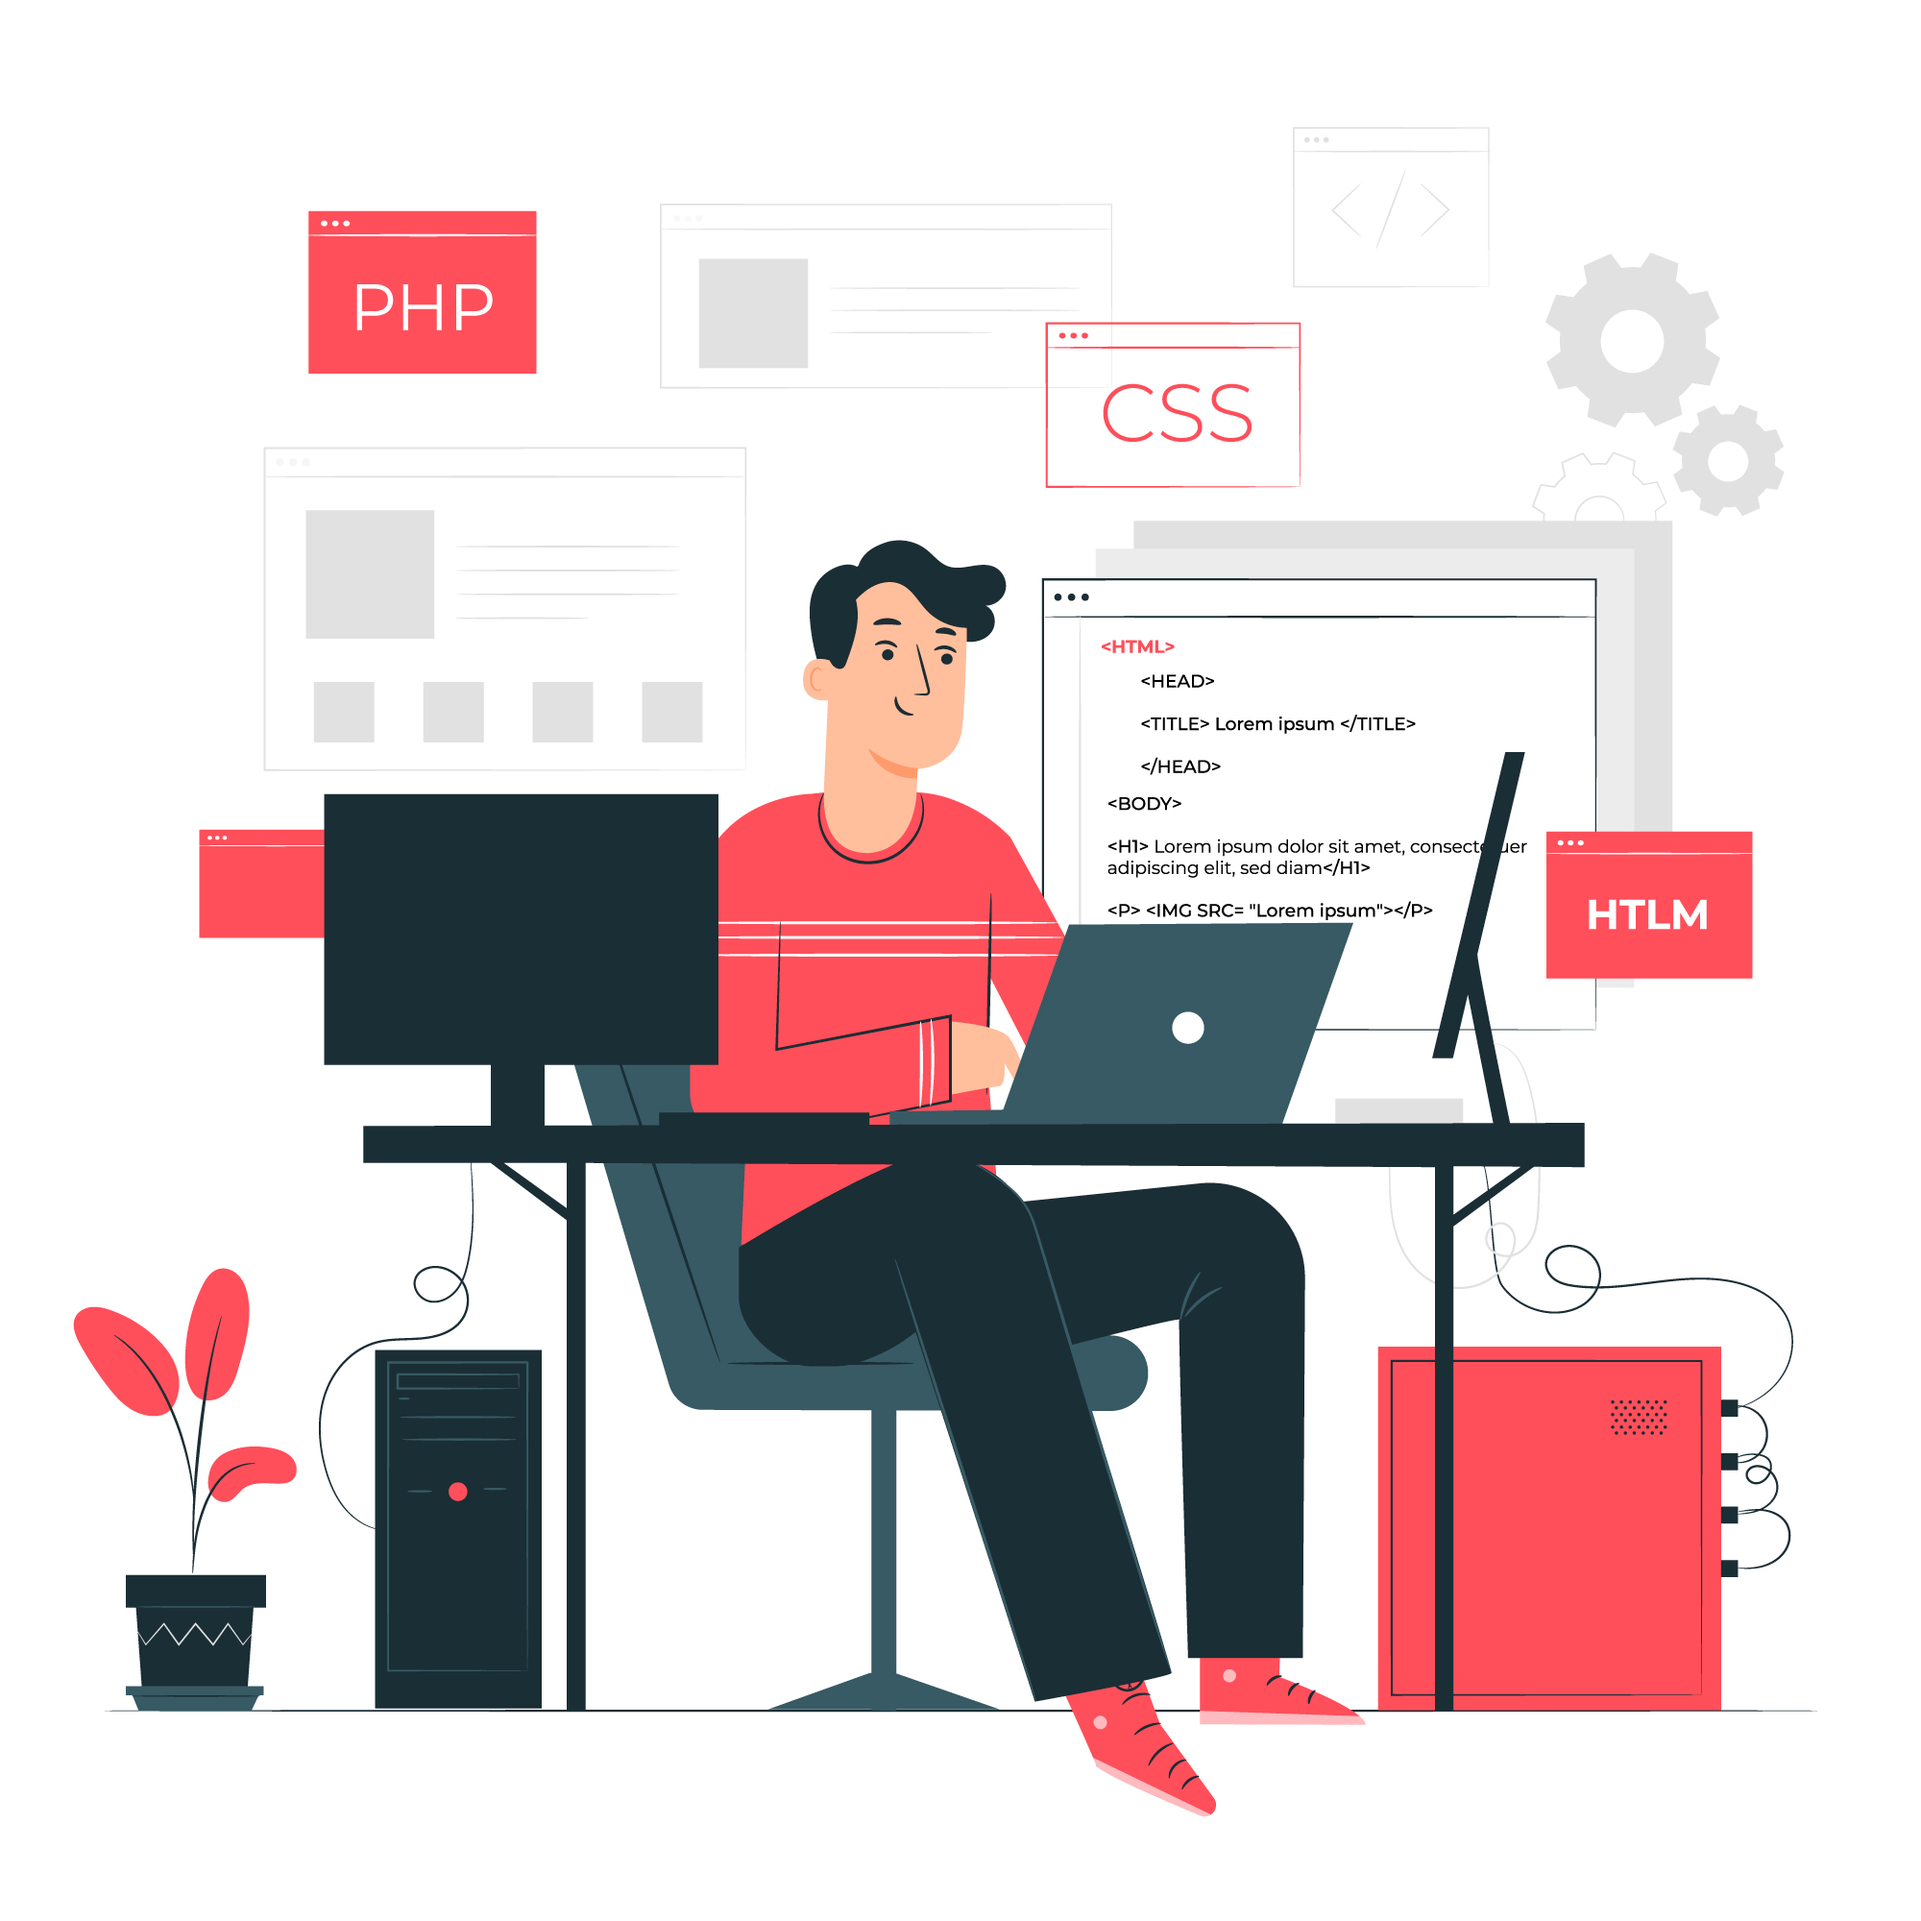
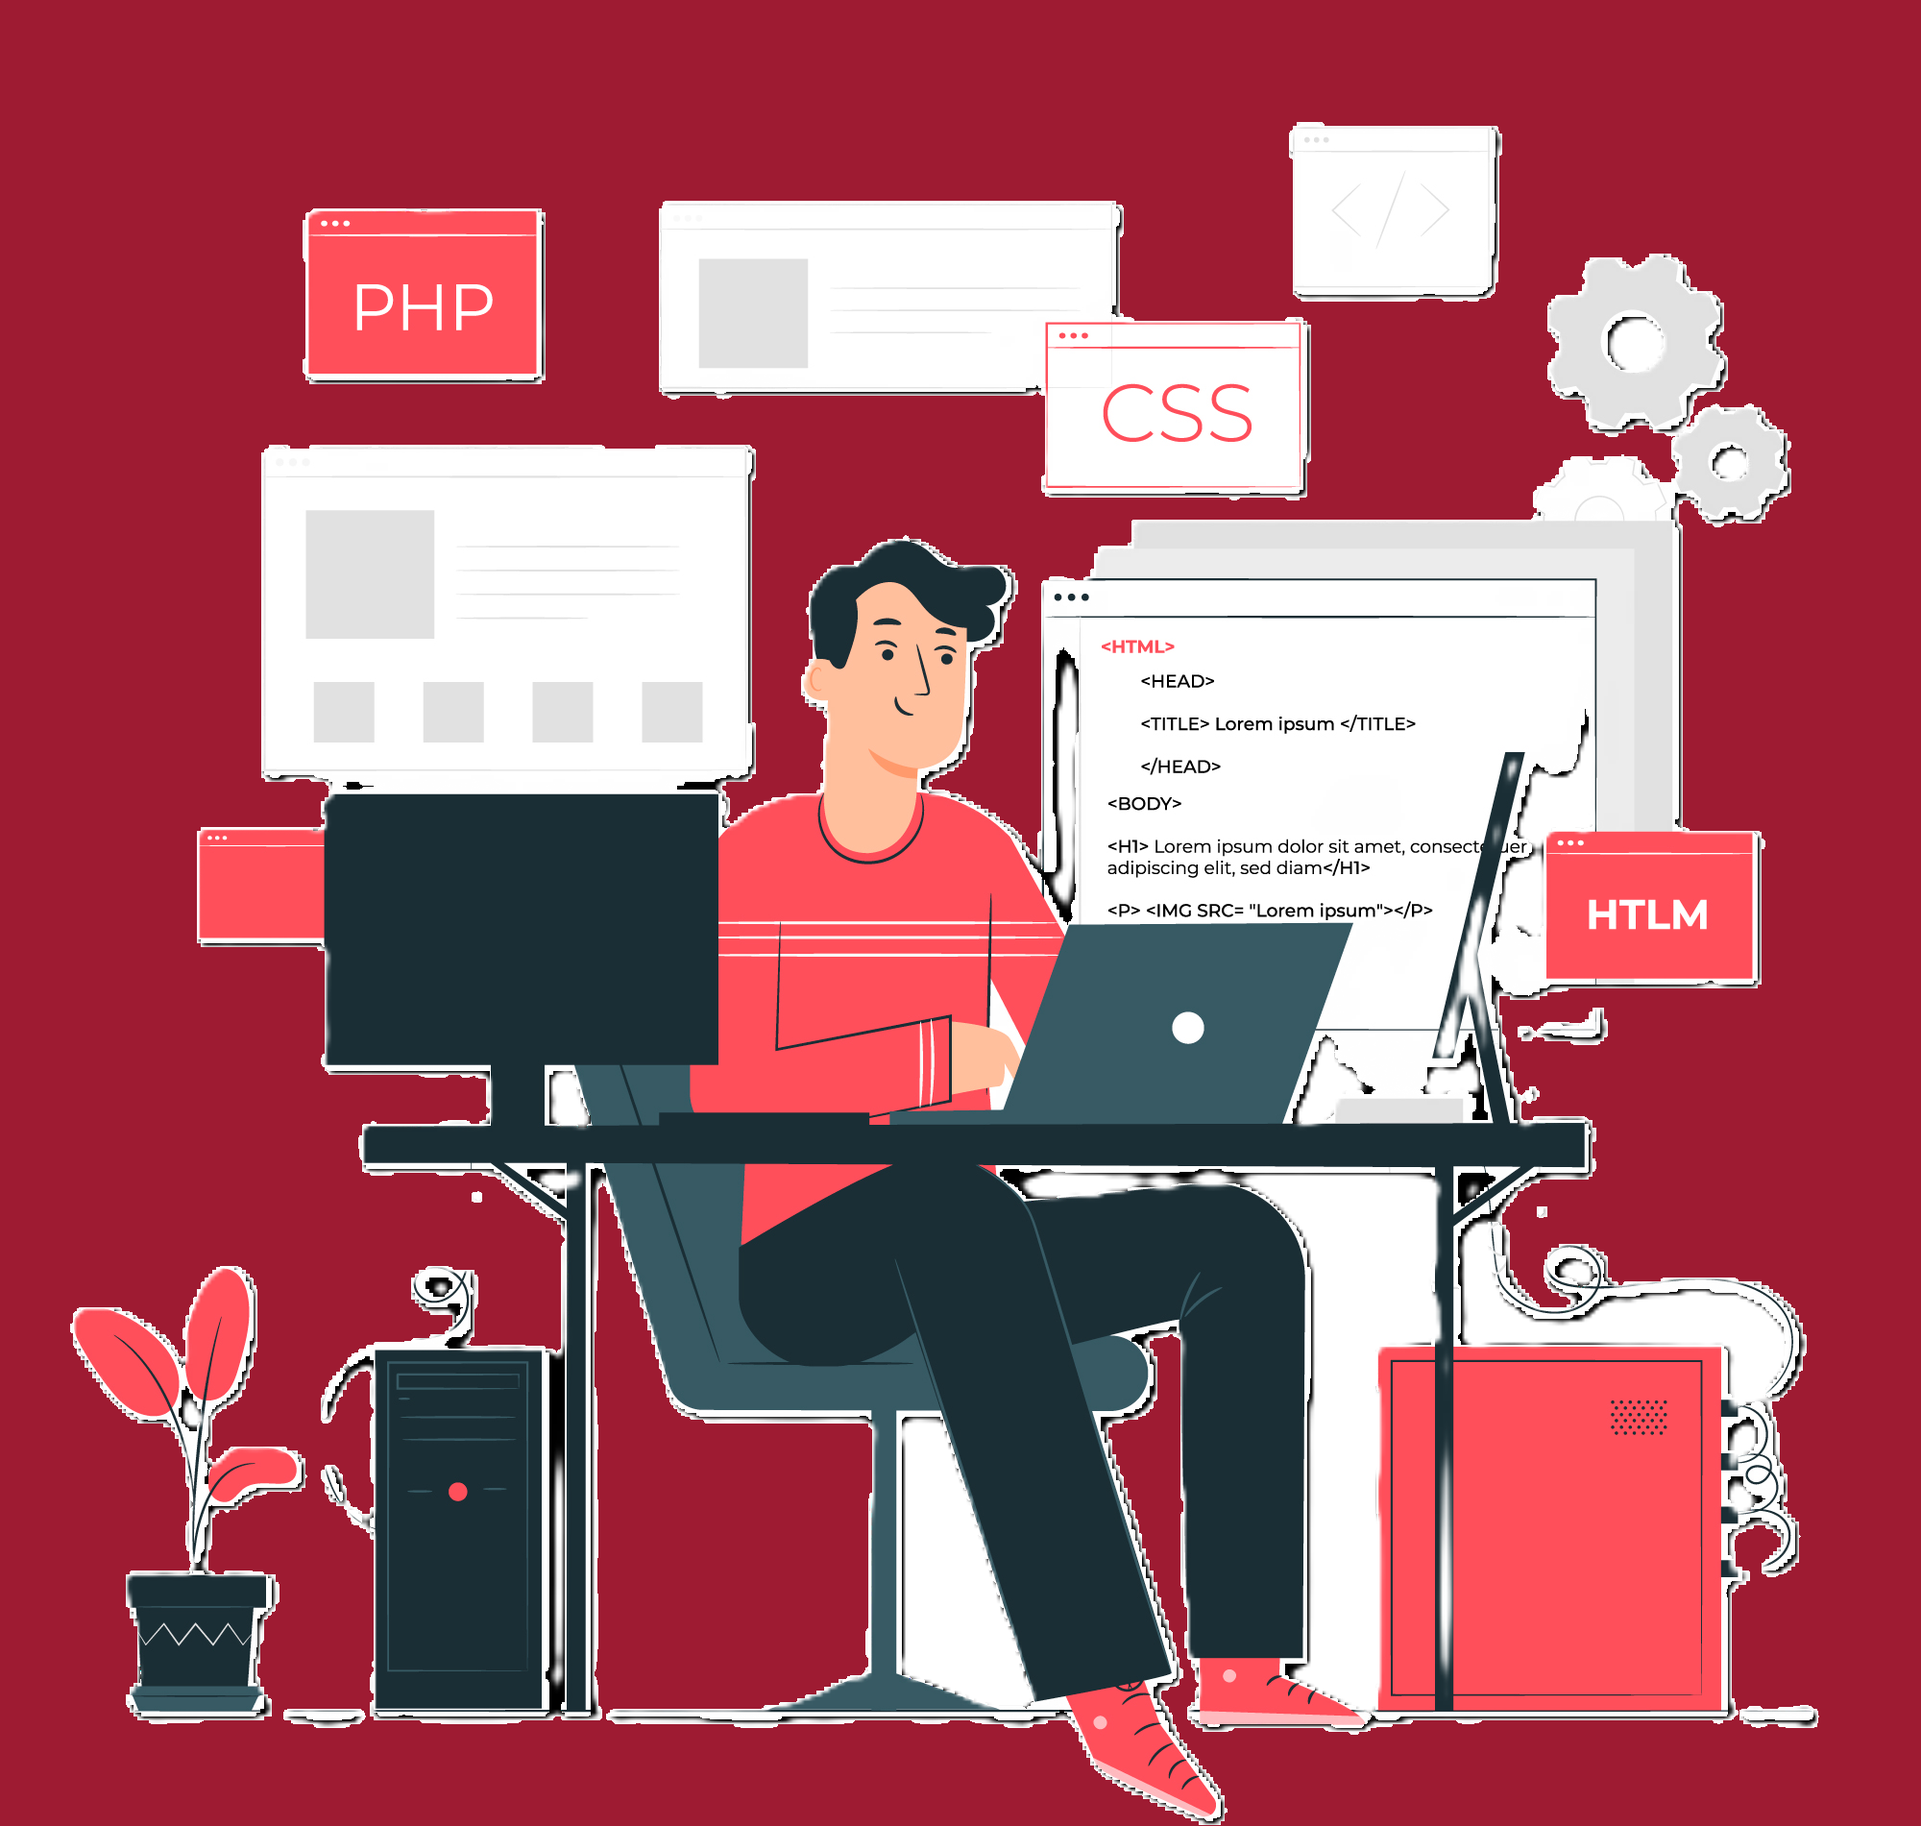
done resume

diff --git a/src/Components/About.js b/src/Components/About.js
@@ -1,13 +1,16 @@
 import Aboutpng from "../assets/About.png";
+
 const About = () => {
   return (
     <section className="flex flex-col md:flex-row px-5 justify-center  bg-secondary">
-      <div className="md:w-1/2">
-        <img src={Aboutpng} alt="about" ></img>
+      <div className="md:w-1/2 pt-20">
+        <img src={Aboutpng} alt="about"></img>
       </div>
-      <div className="md:w-1/2 py-5 flex justify-center px-10">
+      <div className="md:w-1/2 py-5 pt-20 flex justify-center px-10">
         <div className="flex flex-col justify-center font-Hero-font">
-          <h1 className="font-bold font-Hero-font text-4xl text-white border-b-2 w-[160px]">About Me</h1>
+          <h1 className="font-bold font-Hero-font text-4xl text-white border-b-2 w-[160px]">
+            About Me
+          </h1>
           <p className="m-5 text-white text-1xl font-Hero-font">
             Hello! I'm Jeevanandan N R, a passionate .NET Full Stack Developer
             with three years of professional experience in designing,
@@ -18,17 +21,42 @@ const About = () => {
             developing complex enterprise solutions to creating dynamic websites
             for small businesses.
           </p>
-          
+          <div className="flex flex-col justify-center">
+          <h1 className="font-bold font-Hero-font text-3xl text-white border-b-2 w-[300px]">
+            My skill set includes
+          </h1>
+          <p className="text-white m-5">
+            <span className="font-bold text-white text-1xl">
+              Back-End Development:
+            </span>{" "}
+            Proficient in C#, ASP.NET Core, Entity Framework, and SQL Server.
+          </p>
+          <p className="pb-5 text-white m-5">
+            <span className="font-bold text-white text-1xl">
+              Front-End Development:
+            </span>{" "}
+            Skilled in HTML, CSS, JavaScript, and modern framework React.
+          </p>
+          <p className="pb-5 text-white m-5">
+            <span className="font-bold text-white text-1xl">
+              API Development:
+            </span>{" "}
+            Experienced in building RESTful APIs and integrating third-party
+            services.
+          </p>
+          <p className="pb-5 text-white m-5">
+            <span className="font-bold text-white text-1xl">
+              Version Control:
+            </span>{" "}
+            Well-versed in using Git for version control and collaboration.
+          </p>
+          <p className="pb-5 text-white m-5">
+            <span className="font-bold text-white text-1xl">DevOps:</span>
+            Familiar with CI/CD pipelines, Azure DevOps.
+          </p>
         </div>
-        <div className="flex flex-col justify-center m-7">
-            
-          <h1 className="font-bold font-Hero-font text-3xl text-white border-b-2 w-[300px]">My skill set includes</h1>
-          <p className="text-white m-5"><span className="font-bold text-white text-1xl">Back-End Development:</span> Proficient in C#, ASP.NET Core, Entity Framework, and SQL Server.</p>
-          <p className="pb-5 text-white m-5"><span className="font-bold text-white text-1xl">Front-End Development:</span> Skilled in HTML, CSS, JavaScript, and modern framework React.</p>
-          <p className="pb-5 text-white m-5"><span className="font-bold text-white text-1xl">API Development:</span> Experienced in building RESTful APIs and integrating third-party services.</p>
-          <p className="pb-5 text-white m-5"><span className="font-bold text-white text-1xl">Version Control:</span> Well-versed in using Git for version control and collaboration.</p>
-          <p className="pb-5 text-white m-5"><span className="font-bold text-white text-1xl">DevOps:</span>Familiar with CI/CD pipelines, Azure DevOps.</p>
-          </div>
+         
+        </div>
       </div>
     </section>
   );

diff --git a/src/Components/Projects.js b/src/Components/Projects.js
@@ -4,25 +4,26 @@ import project2png from "../assets/live_tracking.png";
 const Projects = () => {
   return (
     <section className="flex flex-col py-20 px-5 justify-center bg-primary text-white">
-      <div className="w-1/2">
-        <div className="flex justify-center">
+      <div className="w-full">
+        <div className="flex flex-col px-10">
           <h1 className="font-bold font-Hero-font text-4xl text-white border-b-2 w-[160px]">
             Projects
           </h1>
+          <p className="pt-5">This Are Two Company Projects Which I Developed Uisng .Net Framework And React Framework</p>
         </div>
       </div>
-      <div className="w-1/2 pt-10">
-        <div className="flex px-10 gap-5">
-          <div>
-            <img className="h-[200px]" src={project1png} alt="project1"></img>
-            <div>
-                <p>An Itegrated Document Management System Developed Using Asp.net and Reactjs</p>
+      <div className="w-full pt-10">
+        <div className="flex flex-col md:flex-row px-10 gap-5">
+          <div className="relative">
+            <img className="h-[200px] w-[500px]" src={project1png} alt="project1"></img>
+            <div className="project-description">
+                <p className="text-center px-5 py-5">An Itegrated Document Management System Developed Using Asp.net and Reactjs</p>
             </div>
           </div>
-          <div>
-            <img className="h-[200px]" src={project2png} alt="project2"></img>
-            <div>
-                <p>
+          <div className="relative">
+            <img className="h-[200px] w-[500px]" src={project2png} alt="project2"></img>
+            <div className="project-description">
+                <p className="text-center px-5 py-5">
                     Vehicle Tracking System Developed Using Blazor Web Assembly(.Net Framework) 
                 </p>
             </div>

diff --git a/src/Components/Resume.js b/src/Components/Resume.js
@@ -1,0 +1,27 @@
+import Resumepng from "../assets/Resuem.png";
+import GitHubIcon from "@mui/icons-material/GitHub";
+import LinkedInIcon from "@mui/icons-material/LinkedIn";
+import EmailIcon from "@mui/icons-material/Email";
+const Resume = () => {
+  return (
+    <section className="flex flex-col md:flex-row px-5 justify-center  bg-secondary">
+      <div className="md:w-1/2 flex justify-end pt-20">
+        <img className="w-[300px]" src={Resumepng} alt="about"></img>
+      </div>
+      <div className="md:w-1/2 py-5 pt-20 flex justify-center px-10">
+        <div className="flex flex-col justify-center font-Hero-font">
+          <h1 className="font-bold font-Hero-font text-4xl text-white border-b-2 w-[160px]">
+            Resume
+          </h1>
+          <p className="m-5 text-white text-1xl font-Hero-font">
+             You can View My Resume <a className="btn" href="#">Download</a>
+          </p>
+          
+          
+        </div>
+      </div>
+    </section>
+  );
+};
+
+export default Resume;

diff --git a/src/App.css b/src/App.css
@@ -10,7 +10,7 @@ header ul li {
   background: rgb(255, 76, 76);
 }
 .bg-secondary{
-  background: rgb(250, 47, 47)
+  background: #9e1b32;
 }
 .Mobile-View{
   @apply fixed top-10 left-0 bg-gray-600 w-full h-1/4;
@@ -18,4 +18,12 @@ header ul li {
 
 .Mobile-View li{
    @apply w-full h-full border-b-2 text-center;
+}
+
+.project-description{
+  @apply absolute left-0 right-0 bottom-0 top-0 bg-[#9e1b32] opacity-0 duration-500 hover:opacity-100;
+}
+
+.btn{
+  @apply bg-primary px-5 py-2 border-2 border-[#9e1b32] hover:border-white rounded-lg
 }

diff --git a/src/App.js b/src/App.js
@@ -3,6 +3,7 @@ import Header from './Components/Header';
 import Hero from './Components/Hero';
 import About from './Components/About';
 import Projects from './Components/Projects';
+import Resume from './Components/Resume';
 
 function App() {
   return (
@@ -11,6 +12,7 @@ function App() {
       <Hero/>
       <About/>
       <Projects/>
+      <Resume/>
     </div>
   );
 }
